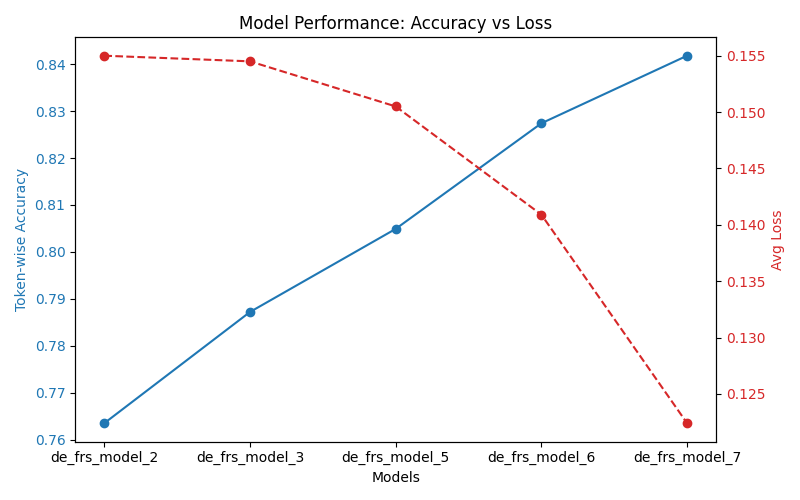
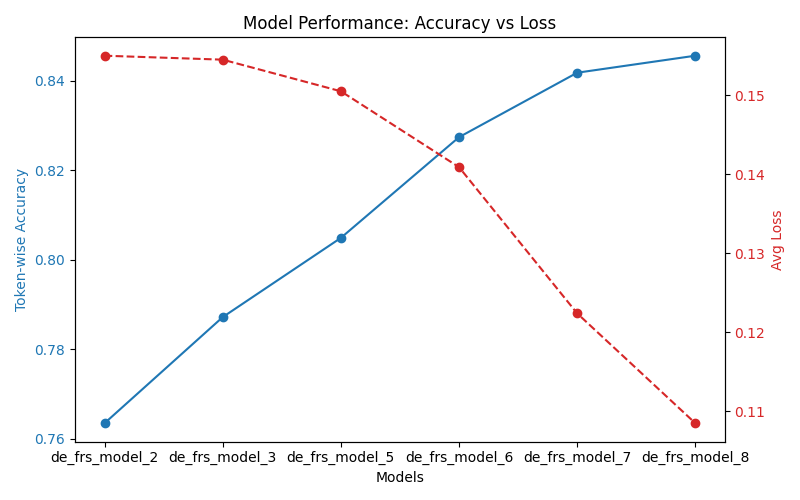
Updated validation results

diff --git a/README.md b/README.md
@@ -21,32 +21,33 @@ With ```trainingset_creator_app.py```, the data set for training in ```data/krek
 The repo currently contains two translator models. One model for translating from German to East Frisian (de_frs_model) and one model for translating from East Frisian to German (frs_de_model).
 
 ## Model performance on validation data set
+![alt text](<performance on validation data.png>)
 -------------------------------------------------------------------------------------
 de_frs_model_2
 Token-wise Accuracy: 0.7635
 Avg Loss: 0.1550
-BLEU Score: 0.81
 
 -------------------------------------------------------------------------------------
 de_frs_model_3
 Token-wise Accuracy: 0.7872
 Avg Loss: 0.1545
-BLEU Score: 1.50
 
 -------------------------------------------------------------------------------------
 de_frs_model_5
 Token-wise Accuracy: 0.8049
 Avg Loss: 0.1505
-BLEU Score: 1.11
 
 -------------------------------------------------------------------------------------
 de_frs_model_6
 Token-wise Accuracy: 0.8274
 Avg Loss: 0.1409
-BLEU Score: 2.54
 
 -------------------------------------------------------------------------------------
-de_frs_model_7 (current model)
+de_frs_model_7
 Token-wise Accuracy: 0.8418
 Avg Loss: 0.1224
-BLEU Score: 0.78
+
+-------------------------------------------------------------------------------------
+de_frs_model_8 (current model)
+Token-wise Accuracy: 0.8456
+Avg Loss: 0.1085
